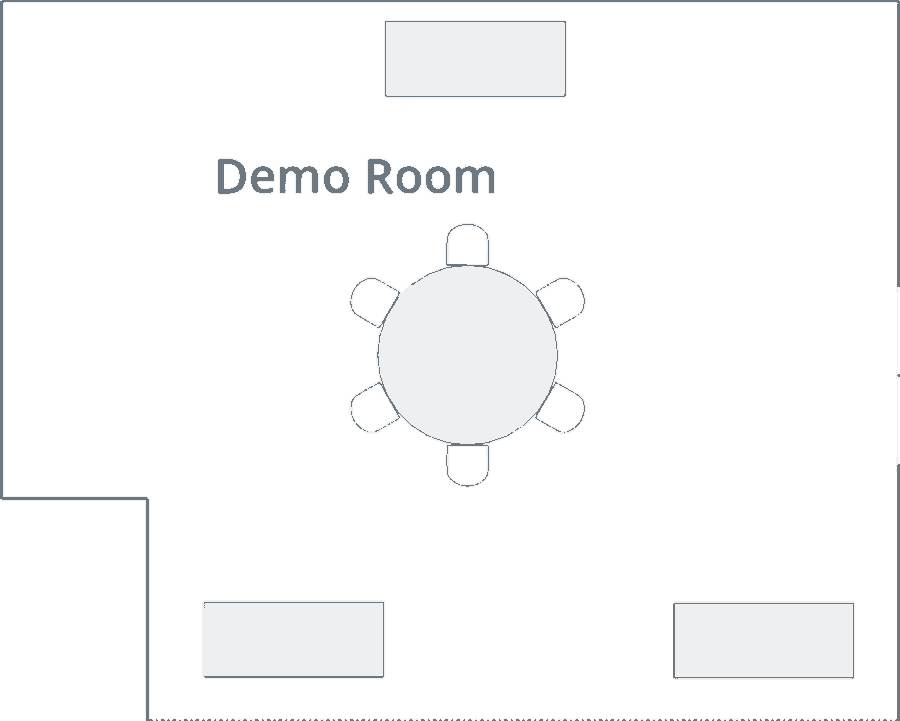
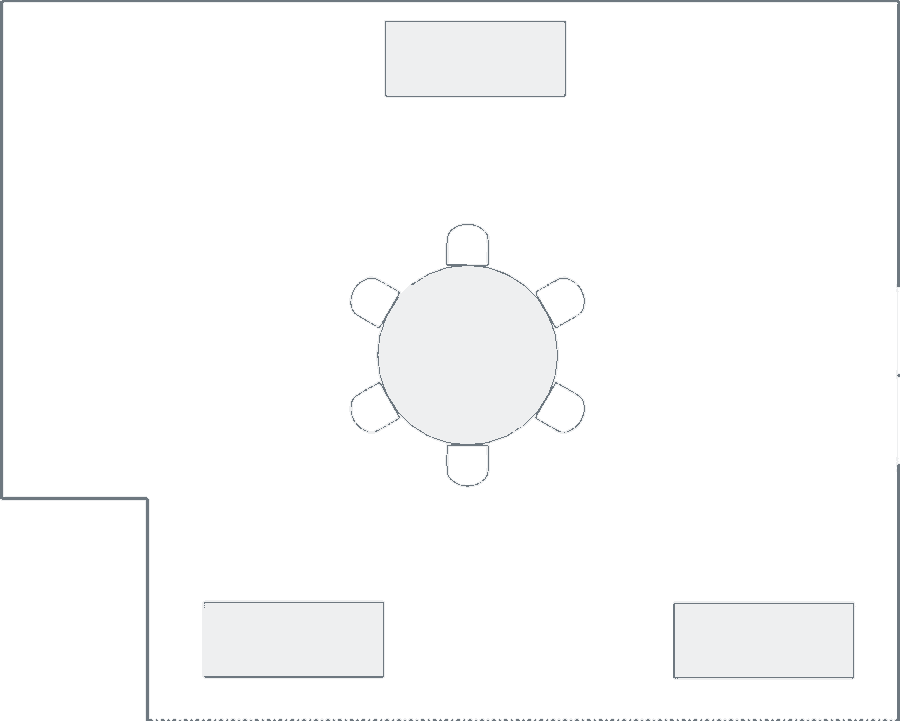
Live map: remove diagram notes that sit under event text
Barton 10/28 uses a cleaned copy (livemap/bg_BartonfromABB_1028.png) without
'scattered high boys...', 'Credenza' and the size label; the Today diagram is
untouched. Room overlays lose 'Beverages', 'Set: 70', 'Demo Room', 'Set:24',
'calssroom for 38', 'set for 72' and the stage '8x18'' label.

Changed region(s): [[0.2178, 0.2136, 0.56, 0.2746]]

diff --git a/live-map.html b/live-map.html
@@ -98,7 +98,7 @@
 <div class="empty" id="empty" hidden>No floor maps for the coming days yet.</div>
 <script>
 (function () {
-  var DATA = {"days":{"2026-10-17":{"ev":{"Primrose D":{"g":"Ayn Rand Centre","ct":"GTD 46 · classroom · Diana","s":[["9–4:15","General session","nofb"],["9–4","Cont. coffee & tea","bev"],["10–11","Cookies (3 dz)","brk"],["2:45–3:45","Candy, granola bars, fruit","brk"],["4:15–6","Flip to dinner","nofb"],["6–10","Hosted bar","recep"],["7:15","Plated Dinner · GTD 30","dinner"]],"flag":"Flip back to classroom after dinner"},"Plumeria":{"g":"Ayn Rand · VIP Room","ct":"GTD 20 · coffee EXP 50","s":[["7–6:30","VIP room","nofb"],["7–8:30","Early Riser Breakfast","bfast"],["8–6","Cont. coffee & tea","bev"],["12:40–2:10","Game Day Lunch","lunch"]]},"Verbena":{"g":"Ayn Rand · 1:1 Sessions","ct":"(1) round of 4 in A + B","s":[["9–4:15","1:1 sessions","nofb"]]}},"off":[{"room":"Bluebell","g":"Ayn Rand · Office","ct":"EXP 5 · conference","s":[["7–11 PM","Office · No F&B","nofb"]]}],"ghosts":[[1535,155,1915,805,"livemap/g_PRIMROSEDfromTheIrreplaceableSparkConference_3.png"],[135,597,485,1090,"livemap/g_PLUMERIAfromTheIrreplaceableSparkConference.png"],[1449,1095,1915,1355,"livemap/g_VERBENAfromTheIrreplaceableSparkConference.png"]],"contacts":[["Ayn Rand Centre","Mackenzie"]]},"2026-10-18":{"ev":{"Primrose AB":{"g":"UIL (Univ. of Texas)","ct":"GTD 128 · hollow sq. 20 + theater 108","s":[["9–4","Breakout","nofb"]]},"Primrose C":{"g":"UIL (Univ. of Texas)","ct":"GTD 171 · U for 44 + theater 120 · Lisa","s":[["6:30–7:15","Set up","nofb"],["7:15–11","General session","nofb"],["7:15","Staff food (back of room)","bfast"],["7:15–11","Coffee 3+3 outside (125)","bev"]]},"Primrose D":{"g":"Ayn Rand Centre","ct":"GTD 46 · classroom · Diana","s":[["9–11 PM","General session","nofb"],["9–4","Cont. coffee & tea","bev"],["10–11","Cookies (3 dz)","brk"],["3:55–4:55","Cookies + whole fruit","brk"],["5:30–7:30","Reception · hors d'oeuvres","recep"]]},"Plumeria":{"g":"Ayn Rand · VIP Room","ct":"GTD 20 · coffee EXP 50","s":[["7–6:30","VIP room","nofb"],["7–9","Texas Sunrise Breakfast","bfast"],["7–11 PM","Cont. beverages","bev"],["12:50–2:15","Austin BBQ Lunch","lunch"]]},"Verbena":{"g":"Ayn Rand · 1:1 Sessions","ct":"Existing set","s":[["7–11 PM","1:1 sessions","nofb"]]},"Camellia":{"g":"UIL (Univ. of Texas)","ct":"GTD 40 · hollow sq. 20 + theater 20","s":[["9–1","Breakout","nofb"]]},"Lantana":{"g":"UIL (Univ. of Texas)","ct":"GTD 41 · hollow sq. 20 + theater 21","s":[["9–1","Breakout","nofb"]]}},"off":[{"room":"Barton","bg":["diagrams/previews/BartonfromUILLegislativeMeetingOct2026.png",0.08,0.08,0.84,0.87,0.743],"g":"UIL (Univ. of Texas)","ct":"Rounds of 10 · black linen · Lisa","s":[["6:30–7:45","Early Riser Breakfast · GTD 35","bfast"],["11:30–1","Plated Lunch · GTD 70","lunch"]],"flag":"Flip 4 → 6 rounds by 11:30"},{"room":"Bluebell","g":"Ayn Rand · Office","ct":"EXP 5 · conference","s":[["7–11 PM","Office · No F&B","nofb"]]}],"ghosts":[[585,155,1008,805,"livemap/g_PRIMROSEABfromUILLegislativeMeetingOct2026.png"],[1008,155,1535,805,"livemap/g_PRIMROSECfromUILLegislativeMeetingOct2026_2.png"],[1535,155,1915,805,"livemap/g_PRIMROSEDfromTheIrreplaceableSparkConference_3.png"],[135,597,485,1090,"livemap/g_PLUMERIAfromTheIrreplaceableSparkConference.png"],[1449,1095,1915,1355,"livemap/g_VERBENAfromTheIrreplaceableSparkConference.png"],[988,1095,1449,1355,"livemap/g_CamelliafromUILLegislativeMeetingOct2026.png"],[135,105,485,597,"livemap/g_LANTANAfromUILLegislativeMeetingOct2026.png"]],"contacts":[["UIL (Univ. of Texas)","Caroline"],["Ayn Rand Centre","Mackenzie"]]},"2026-10-19":{"ev":{"Primrose C":{"g":"UIL (Univ. of Texas)","ct":"GTD 142 · hollow sq. 54 + theater 88 · Lisa","s":[["7:30–8:15","Room flip","nofb"],["8:15–11","General session","nofb"],["8:15","Breakfast tacos + pastries","bfast"],["8:15–11","Coffee (reg + decaf)","bev"]]},"Plumeria B":{"g":"Lumenalta","ct":"GTD 4 · clear room, 6' table","s":[["2–7","Marketing team","nofb"]]}},"off":[{"room":"Barton","bg":["diagrams/previews/BartonfromUILLegislativeMeetingOct2026.png",0.08,0.08,0.84,0.87,0.743],"g":"UIL (Univ. of Texas)","ct":"GTD 35 · rounds of 10 · Lisa","s":[["7:30–8:45","Texas Sunrise Breakfast","bfast"]]},{"room":"Zilker","g":"AUSDW In-House","ct":"EXP 10 · conference","s":[["6–9 PM","Dinner","dinner"]],"flag":"Menu not on events report"}],"ghosts":[[1008,155,1535,805,"livemap/primrose-c-mon.png"],[135,843,485,1090,"livemap/plumeria-b-mon.png"]],"contacts":[["UIL (Univ. of Texas)","Caroline"],["Lumenalta","Julie"],["AUSDW In-House","Mike"]]},"2026-10-20":{"ev":{"Verbena":{"g":"Grainger","ct":"GTD 20 · EXP 15 · Diana","s":[["7:15–8","Mod. Healthy Start Breakfast","bfast"],["8–5","All-day beverages","bev"],["10–11","Dried fruit & nuts","brk"],["12–1","Austin BBQ Lunch","lunch"],["2–3","Artisan Cheese Display","brk"]]},"Camellia A":{"g":"Microsoft","ct":"GTD 11 · conference set 14 · Lisa","s":[["8–5","Meeting","nofb"],["8–9:15","Early Riser Breakfast","bfast"],["12–1","Tejas Mexicano Lunch Buffet","lunch"]],"flag":"Revised: lunch upgraded to buffet · 1 GF"},"Camellia B":{"g":"Lumenalta","ct":"GTD 8 · Lisa","s":[["7–6:30","Sodas all day","bev"],["7:30–9","Grab & Go","bfast"],["12:30","Conf. Dining","lunch"],["4–4:30","Pretzel break","brk"]]}},"off":[{"room":"Barton","bg":["diagrams/previews/BartonfromTripleCrownConsultingQuarterlyMeetingOct2026.png",0.08,0.08,0.84,0.87,0.743],"g":"Triple Crown","ct":"EXP 25 · schoolroom · Lisa","s":[["8–5","Meeting","nofb"],["8–9","Early Riser Breakfast","bfast"],["9–5","Cont. beverages","bev"],["12:30–1:30","Tejas Mexicano Lunch","lunch"]]},{"room":"Buttercup","g":"Herring Bank","ct":"GTD 5 · conference","s":[["8–5","Meeting · No F&B","nofb"]]},{"room":"Zilker","g":"AUSDW In-House","ct":"EXP 10 · conference","s":[["6–8 PM","Dinner","dinner"]],"flag":"Menu not on events report"}],"ghosts":[[988,1078,1221,1355,"livemap/g_CamelliaAfromMicrosoftNagaLTOffSiteOct2026.png"],[1221,1055,1449,1355,"livemap/g_CamelliaBfromLumenaltaLeadershipMeetingOct2026.png"],[1449,1095,1915,1355,"livemap/g_VERBENAfromGrainger.png"]],"contacts":[["Triple Crown","Danielle"],["Grainger","Michelle"],["Herring Bank","Chris"],["Lumenalta","Natalie"],["Microsoft","Amie"],["AUSDW In-House","Mike"]]},"2026-10-21":{"ev":{"Lantana":{"g":"Q2 Banking","ct":"Set U-shape for 36","s":[["12–4","Set up for Thu","nofb"]],"flag":"New diagram: U set 32 (+8 chairs); EO says 36"},"Plumeria":{"g":"Q2 Banking","ct":"EXP 30 · (4) rounds of 9 · GTD 35 bev","s":[["10–1","Set up","nofb"],["1–4","Meeting","nofb"],["1–4","Cont. beverages","bev"],["2:30–4","Cookies (2 dz)","brk"]]},"Primrose A":{"g":"Q2 Banking","ct":"Set U-shape for 30","s":[["12–4","Set up for Thu","nofb"]]},"Primrose B":{"g":"Q2 Banking","ct":"Set U-shape for 30","s":[["12–4","Set up for Thu","nofb"],["10–1","6x30 table outside","nofb"]]},"Camellia A":{"g":"Microsoft","ct":"GTD 11 · conference set 14 · Lisa","s":[["8–12","Meeting","nofb"],["8–9","Early Riser Breakfast","bfast"],["12–1","Hill Country Spa Day Lunch Buffet","lunch"]],"flag":"Revised: lunch upgraded to buffet · 1 GF"},"Camellia B":{"g":"Lumenalta","ct":"GTD 8 · last day","s":[["8–3","Meeting + coffee","bev"],["8–9","Grab & Go","bfast"],["11:30","Conf. Dining","lunch"]]},"Verbena":{"g":"Grainger","ct":"EXP 15 · last day","s":[["7–5","Meeting","nofb"],["7–8","Early Riser Breakfast","bfast"],["10–11","AM break","bev"],["12–1","Game Day Tailgate Lunch","lunch"],["2–3","PM break","bev"]]}},"off":[{"room":"Barton","bg":["diagrams/previews/BartonfromTripleCrownConsultingQuarterlyMeetingOct2026.png",0.08,0.08,0.84,0.87,0.743],"g":"Triple Crown","ct":"EXP 25 · schoolroom · last day","s":[["8–3","Meeting","nofb"],["8–9","Texas Sunrise Breakfast","bfast"],["9–1","Cont. beverages","bev"],["12–1","Hill Country Spa Day Lunch","lunch"]]},{"room":"Buttercup","g":"Herring Bank","ct":"GTD 5 · conference","s":[["8–5","Meeting · No F&B","nofb"]]},{"room":"Bluebell","g":"QAD Inc. (pop-up)","ct":"GTD 4 · conference · Lisa","s":[["10:30–10 PM","Meeting · coffee + water","bev"],["10:30–11","Grab & Go Breakfast","bfast"],["12:30–1:30","Conf. Dining Lunch","lunch"]],"flag":"Ask before refilling coffee"}],"ghosts":[[135,105,485,597,"livemap/g_LANTANAfromQ2CustomerAdvisoryBoardCAB_1020.png"],[135,597,485,1090,"livemap/g_PLUMERIAfromQ2CustomerAdvisoryBoardCAB_1020.png"],[988,1078,1221,1355,"livemap/g_CamelliaAfromMicrosoftNagaLTOffSiteOct2026.png"],[1221,1055,1449,1355,"livemap/g_CamelliaBfromLumenaltaLeadershipMeetingOct2026.png"],[1449,1095,1915,1355,"livemap/g_VERBENAfromGrainger.png"],[585,155,1008,475,"livemap/g_PRIMROSEAfromQ2CustomerAdvisoryBoardCAB_1020.png"],[585,475,1008,805,"livemap/g_PRIMROSEBfromQ2CustomerAdvisoryBoardCAB_1020.png"]],"contacts":[["Triple Crown","Danielle"],["Grainger","Michelle"],["Herring Bank","Chris"],["Lumenalta","Natalie"],["Microsoft","Amie"],["Q2 Banking","Brooke"],["QAD Inc.","Rowan"]]},"2026-10-22":{"ev":{"Camellia A":{"g":"Q2 Banking · CAB Breakout","ct":"GTD 8 · U set 8 + 5 chairs","s":[["7:30–3","Fraud breakout","nofb"]]},"Primrose A":{"g":"Q2 Banking · Commercial Digital","ct":"EXP 30 · existing U-shape (set 37)","s":[["8–3","Breakout","nofb"],["3–4","Tech check","nofb"]]},"Primrose B":{"g":"Q2 Banking · Consumer Digital","ct":"EXP 30 · existing U-shape (set 36)","s":[["8–3","Breakout","nofb"],["2:30–4","Tech check","nofb"]]},"Lantana":{"g":"Q2 Banking · Pricing & Profitability","ct":"EXP 24 · U set 32 + 8 chairs","s":[["8–3","Breakout","nofb"],["2–4","Tech rehearsal","nofb"]]},"Plumeria A":{"g":"Q2 Banking · Fraud","ct":"GTD 10 · U set 10 + 5 chairs","s":[["8–10","Gen. session · U for 30, 2 screens","nofb"],["10–10:15","Flip to A + B","nofb"],["10:15–2","Breakout","nofb"]]},"Plumeria B":{"g":"Q2 Banking · Fraud","ct":"GTD 14 · U set 14 + 5 chairs","s":[["10:15–2","Breakout","nofb"],["4–5","Tech rehearsal (Plumeria)","nofb"]]},"Primrose D":{"g":"Q2 Banking · Storage","ct":"EXP 1 · new 10/20","s":[["8–3","Storage · No F&B","nofb"]]}},"off":[{"room":"Bluebell","g":"Q2 Banking · Office","ct":"EXP 1 · Diana","s":[["7–3","Staff office · No F&B","nofb"]],"flag":"Moved from Camellia B (10/20)"},{"room":"PDR Foyer","g":"Q2 Banking","ct":"Buffet · Diana","s":[["7–8:30","Early Riser Breakfast · GTD 115","bfast"],["12–1","Tejas Mexicano Lunch · GTD 138","lunch"]],"flag":"Bay II buffet · 1 garlic allergy: separate plate · 4 GF · 3 veg · 1 vegan"},{"room":"Bonnell","g":"Q2 Banking","ct":"EXP 40 · (4) rounds of 10","s":[["7:30–1","Seating · No F&B","nofb"]]},{"room":"Barton + Bay II","g":"Q2 Banking · Holding","ct":"(6) rounds of 10 · extra seating","s":[["7–1","Holding rooms · No F&B","nofb"]]},{"room":"Pre-Function","g":"Q2 Banking · Registration","ct":"EXP 150","s":[["7–3","Registration","nofb"],["7–12","Coffee, teas, sodas","bev"],["10–10:30","Mini pastries (3 dz) + fruit (20)","brk"],["2:30–3","Granola bars + iced tea","brk"]]}],"ghosts":[[135,105,485,597,"livemap/g_LANTANAfromQ2CustomerAdvisoryBoardCAB_1020.png"],[135,597,485,843,"livemap/g_PLUMERIAAfromQ2CustomerAdvisoryBoardCAB_1020.png"],[135,843,485,1090,"livemap/g_PLUMERIABfromQ2CustomerAdvisoryBoardCAB_1020.png"],[988,1078,1221,1355,"livemap/g_CamelliaAfromQ2CustomerAdvisoryBoardCAB_1020.png"],[585,155,1008,475,"livemap/g_PRIMROSEAfromQ2CustomerAdvisoryBoardCAB_1020.png"],[585,475,1008,805,"livemap/g_PRIMROSEBfromQ2CustomerAdvisoryBoardCAB_1020.png"]],"contacts":[["Q2 Banking","Brooke"]]},"2026-10-23":{"ev":{"Primrose AB":{"g":"Robe Lighting · Early Set Up","ct":"32 chairs theater + 5 tables","s":[["9–5","Set Up · No F&B","nofb"]],"flag":"Room must be ready by 9 AM (early set-up day, Lisa 10/21)"}},"off":[],"ghosts":[[585,155,1008,805,"livemap/g_PRIMROSEABfromRobeLighting_set32.png"]],"contacts":[["Robe Lighting","Taylor"]]},"2026-10-24":{"ev":{"Primrose AB":{"g":"Robe Lighting · Trade Show","ct":"GTD 30 · 32 theater + 5 tables","s":[["7–9","Set Up · No F&B","nofb"],["9–12","Trade show (product demo) · coffee + water on cons.","nofb"]]},"Primrose D":{"g":"PMADTX · Boots & Bling Gala","ct":"GTD 80 · (9) rounds of 8 + (1) of 10 · highboys","s":[["9–6","Set Up · No F&B","nofb"],["7–11 PM","Mac & cheese (50) · antipasto (35, no pork) · crudité (30)","recep"],["7–11 PM","Hosted bar on consumption","bev"],["7–11 PM","Cash bar","bev"]],"flag":"Two bars on the event orders (hosted + cash); confirm with Diana · client brings desserts"}},"off":[],"ghosts":[[1535,155,1915,805,"livemap/g_PRIMROSEDfromBootsBling_1021.png"],[585,155,1008,805,"livemap/g_PRIMROSEABfromRobeLighting_set32.png"]],"contacts":[["Robe Lighting","Peter"],["PMADTX","Courtney"]]},"2026-10-26":{"ev":{"Primrose CD":{"g":"US Oncology · Texas Oncology Fall Physi…","ct":"GTD 103 · set 114 · crescent rounds · stage 8x18","s":[["6–10 PM","Meeting · No F&B","nofb"],["6–8 PM","Steakhouse Chopping Block Dinner Table · GTD 103","dinner"]],"flag":"Warm the room 2–3°; limit staff in/out after 6:45 · label vegan + vegetarian"}},"off":[{"room":"Primrose Foyer CD","g":"US Oncology · Texas Oncology Fall Physi…","ct":"GTD 103 · cocktail rounds + highboys","s":[["5–6","Antipasto + veg crudité stations · 50 ea","recep"],["5–6","Appreciated Brands package bar · 2 bartenders","bev"]]}],"ghosts":[[1008,155,1915,805,"livemap/g_PRIMROSECDfromTexasOncology_1023.png"]],"contacts":[["US Oncology","Amy"]]},"2026-10-27":{"ev":{"Plumeria B":{"g":"Reliant Life Sciences · All Company Mee…","ct":"GTD 13 · set 15 · 3 crescent rounds of 5","s":[["8–5","Breakout · No F&B","nofb"]],"flag":"Added 10/23 (Lisa)"},"Plumeria A":{"g":"Reliant Life Sciences · All Company Mee…","ct":"GTD 13 · Conference","s":[["8–5","Meeting · No F&B","nofb"],["8–5","Continuous Break","bev"],["12–1","Conference Dining Lunch","lunch"]]},"Camellia":{"g":"Galderma · Team Building","ct":"GTD 20 · U-Shape","s":[["7–8","Healthy Start Breakfast Table","bfast"],["9:45–10","AM Coffee break","brk"],["12–1","Modern Italian lunch","lunch"],["2:30–2:45","PM Break","brk"]]},"Primrose AB":{"g":"Werfen · Set Up","ct":"(10) crescent rounds of 7, linenless · podium","s":[["12–5","Set Up · No F&B","nofb"]]},"Lantana B":{"g":"Werfen · Set Up","ct":"Classroom set for 24","s":[["12–5","Set Up · No F&B","nofb"]]},"Lantana A":{"g":"Werfen · Set Up","ct":"(3) demo tables + (1) round of 6","s":[["12–5","Set Up · No F&B","nofb"]]}},"off":[{"room":"Bluebell","g":"Bobcat · GME Meeting","ct":"GTD 4 · Conference","s":[["8–5","Continuous Break","bev"]]},{"room":"Zilker","g":"AUSDW In-House · SwS Lunch","ct":"EXP 12 · Conference","s":[["12–1","Meal on own · chicken biscuits + chips","nofb"]]}],"ghosts":[[988,1095,1449,1352,"livemap/g_CamelliafromGalderma_1021.png"],[135,597,485,843,"livemap/g_PLUMERIAAfromReliant_1021.png"],[585,155,1008,805,"livemap/g_PRIMROSEABfromWerfen.png"],[135,105,485,351,"livemap/g_LANTANAAfromWerfen_1026.png"],[135,351,485,597,"livemap/g_LANTANABfromWerfen.png"]],"contacts":[["Reliant Life Sciences","Whitney"],["Galderma","Shelby"],["Bobcat","Steve"],["AUSDW In-House","Mike"],["Werfen","Brooke"]]},"2026-10-28":{"ev":{"Plumeria B":{"g":"Reliant Life Sciences · All Company Mee…","ct":"GTD 13 · set 15 · 3 crescent rounds of 5","s":[["8–12:30","Breakout · No F&B","nofb"]],"flag":"Added 10/23 (Lisa)"},"Verbena":{"g":"Momentum Skilled Services · Corporate R…","ct":"GTD 38 · Schoolroom","s":[["7:30–5","Meeting · No F&B","nofb"],["7:30–9","Texas Sunrise Breakfast Table","bfast"],["9–5","Continuous Break","bev"],["12–1","Hill Country Spa Day lunch","lunch"],["3–3:30","Coffee Break","brk"]]},"Plumeria A":{"g":"Reliant Life Sciences · All Company Mee…","ct":"GTD 13 · Conference","s":[["8–12:30","Meeting · No F&B","nofb"],["9–12:30","Continuous Break","bev"],["12–1","Conference Dining Lunch","lunch"]]},"Camellia":{"g":"Galderma · Team Building","ct":"GTD 20 · U-Shape","s":[["7–8","Early Riser Breakfast Table","bfast"],["9:45–10","AM Break","brk"],["10–1","Continuous Break","bev"],["12–1","Tejas Mexicano lunch","lunch"],["2:30–2:45","PM Break","brk"]]},"Primrose AB":{"g":"Werfen · Meeting","ct":"GTD 70","s":[["7:45–8:30","Early Riser Breakfast Table","bfast"],["8–5","Meeting · No F&B","nofb"],["10:30–11","AM Coffee Break","brk"],["12:15–1","Hill Country Spa Day lunch","lunch"],["2:45–2:45","PM Coffee Break","brk"]],"flag":"Coffee Break prints 2:45 PM–2:45 PM (no end time); confirm with the manager"},"Lantana B":{"g":"Werfen · Meeting","ct":"GTD 20","s":[["8–5","Breakout · No F&B","nofb"]]},"Lantana A":{"g":"Werfen · Meeting","ct":"EXP 20","s":[["8–5","Demo Room · No F&B","nofb"]]}},"off":[{"room":"Bonnell","g":"AUSDW In-House · Dinner","ct":"EXP 17 · Conference","s":[["6–8 PM","Dinner · menu TBD (no event order yet)","dinner"]]},{"room":"Barton","bg":["diagrams/previews/CorinnePDRsfromABB_1021.png",0.47,0.31,0.99,0.85,0.744],"g":"ABB · ABB and AWS Social Event","ct":"GTD 40 · Cocktail Rounds","s":[["7:30–10 PM","Stationed hors d’oeuvres (50 each of 5)","recep"],["7:30–9:45 PM","Bar · hosted appreciated brands","bev"]]},{"room":"Bluebell","g":"Bobcat · GME Meeting","ct":"GTD 4 · Conference","s":[["8–5","Continuous Break","bev"]]}],"ghosts":[[988,1095,1449,1352,"livemap/g_CamelliafromGalderma_1021.png"],[135,597,485,843,"livemap/g_PLUMERIAAfromReliant_1021.png"],[585,155,1008,805,"livemap/g_PRIMROSEABfromWerfen.png"],[135,105,485,351,"livemap/g_LANTANAAfromWerfen_1026.png"],[135,351,485,597,"livemap/g_LANTANABfromWerfen.png"],[1449,1095,1915,1352,"livemap/g_VERBENAfromMomentum_1021.png"]],"contacts":[["Momentum Skilled Services","Morgan"],["Reliant Life Sciences","Whitney"],["Galderma","Shelby"],["AUSDW In-House","Mike"],["ABB","Ray"],["Bobcat","Steve"],["Werfen","Brooke"]]},"2026-10-29":{"ev":{"Camellia":{"g":"Upbring · Board of Directors","ct":"GTD 22 · U-Shape","s":[["9–10","Set Up · No F&B","nofb"],["10–3","Strategy session · No F&B","nofb"],["10–3","Continuous Break/ On Consumption","bev"],["12–1","Tejas Mexicano lunch","lunch"]]}},"off":[{"room":"Bonnell","g":"Upbring · Dinner","ct":"EXP 16 · Conference","s":[["6–8 PM","Dinner · menu TBD (no event order yet)","dinner"]]},{"room":"Bluebell","g":"AUSDW In-House · Meeting","ct":"EXP 1","s":[["10–12","Dave Sibley · No F&B","nofb"]]}],"ghosts":[[988,1095,1449,1352,"livemap/g_CamelliafromUpbring_1021.png"]],"contacts":[["Upbring","Cynthia"],["AUSDW In-House","Mike"]]},"2026-10-31":{"ev":{},"off":[{"room":"Bonnell","g":"Corinne · Liz's Baby Shower Brunch","ct":"GTD 13 · one long table","flag":"Nut-free event · one guest allergic to shellfish","s":[["11–1","Premium brunch, family style · mimosa bar","bfast"],["12:30","Tres leches cake","brk"]]}],"ghosts":[],"contacts":[["Corinne","Carrie"]]},"2026-11-02":{"ev":{"Camellia A":{"g":"TASB","ct":"GTD 14 · U-shape","s":[["8:30–9:30","Grab & Go","bfast"],["9–5","Board meeting","nofb"],["9–5","Breaks all day","bev"],["12–1","Conf. Dining","lunch"]]},"Camellia B":{"g":"Altasciences","ct":"GTD 8 · U-shape","s":[["7:45–9","Grab & Go","bfast"],["8–5","Meeting","nofb"],["9–5","Breaks all day","bev"],["10–10:30","AM break","brk"],["11:30–1","Conf. Dining","lunch"]]},"Primrose D":{"g":"Legrand · General Session","ct":"EXP 70 · crescent rounds, set 72 · stage 8x18","flag":"No event order yet: times and counts from the 10/5 events report","s":[["12–11 PM","General session · No F&B","nofb"],["4–5","Lunch · menu TBD","lunch"]]}},"off":[],"ghosts":[[1221,1095,1449,1352,"livemap/g_CamelliaBfromAltasciencesBDLeadership_1020.png"],[1535,155,1915,805,"livemap/g_PRIMROSEDfromLegrandCSRSummitNov2026MWP44DCZ.png"]],"contacts":[["TASB","Mark"],["Altasciences","Emilio"],["Legrand","Suzanne"]]},"2026-11-03":{"ev":{"Primrose B":{"g":"Legrand · Hospitality Room","ct":"EXP 70 · rounds of 10","flag":"No event order yet: times and counts from the 10/5 events report","s":[["7–2","Hospitality room · No F&B","nofb"],["8–9","Breakfast buffet · menu TBD","bfast"],["12–1","Lunch buffet · menu TBD","lunch"]]},"Primrose D":{"g":"Legrand · General Session","ct":"EXP 70 · crescent rounds, set 72 · stage 8x18","flag":"No event order yet: times and counts from the 10/5 events report","s":[["8–5","General session · No F&B","nofb"],["8–5","Continuous break","bev"],["12–1","Lunch · menu TBD","lunch"]]},"Camellia B":{"g":"Altasciences","ct":"GTD 8 · last day","s":[["7:30–9","Grab & Go","bfast"],["8–5","Meeting","nofb"],["12:30","Conf. Dining","lunch"],["5:30 PM","Legrand set","nofb"]]},"Verbena A":{"g":"Legrand","ct":"EXP 30 · rounds of 8","s":[["5:30–11 PM","Set-up","nofb"]]},"Verbena B":{"g":"Legrand","ct":"EXP 30 · rounds of 8","s":[["5:30–11 PM","Set-up","nofb"]]},"Primrose C":{"g":"Lenovo · General Session set-up","ct":"EXP 100","s":[["5:30–11:30 PM","General session set-up · No F&B","nofb"]]},"Lantana":{"g":"Bayer · Southwest Area Meeting","ct":"GTD 20 · U-shape","s":[["12–1","Austin BBQ lunch","lunch"],["12–5","Continuous break","bev"],["1–6","General session · No F&B","nofb"],["3–3:30","PM break · GTD 17","brk"]]}},"off":[{"room":"Bluebell","g":"Lenovo · Office","ct":"GTD 5","s":[["9–12","Office · No F&B","nofb"]]},{"room":"Buttercup","g":"Colt · Meeting","ct":"EXP 6 · conference","flag":"No event order yet: times and counts from the 10/5 events report","s":[["9–5","Meeting · No F&B","nofb"],["9–5","Continuous break","bev"],["12–1","Lunch · menu TBD","lunch"]]},{"room":"Bonnell","g":"AUSDW In-House · Dinner","ct":"EXP 30 · rounds of 6","s":[["5:30–8 PM","Dinner · menu TBD","dinner"]]}],"ghosts":[[1221,1095,1449,1352,"livemap/g_CamelliaBfromAltasciencesBDLeadership_1020.png"],[1535,155,1915,805,"livemap/g_PRIMROSEDfromLegrandCSRSummitNov2026MWP44DCZ.png"]],"contacts":[["Legrand","Suzanne"],["Altasciences","Emilio"],["Lenovo","Laura"],["Colt","Sharon"],["Bayer","Rachel"],["AUSDW In-House","Mike"]]}},"box":{"Lantana":[135,105,485,597],"Plumeria":[135,597,485,1090],"Plumeria B":[135,843,485,1090],"Primrose A":[585,155,1008,475],"Primrose B":[585,475,1008,805],"Primrose AB":[585,155,1008,805],"Primrose C":[1008,155,1535,805],"Primrose D":[1535,155,1915,805],"Camellia":[988,1095,1449,1352],"Camellia A":[988,1095,1221,1352],"Camellia B":[1221,1095,1449,1352],"Verbena":[1449,1095,1915,1352],"Plumeria A":[135,597,485,843],"Lantana A":[135,105,485,351],"Lantana B":[135,351,485,597],"Primrose CD":[1008,155,1915,805],"Verbena A":[1449,1095,1682,1352],"Verbena B":[1682,1095,1915,1352]}};
+  var DATA = {"days":{"2026-10-17":{"ev":{"Primrose D":{"g":"Ayn Rand Centre","ct":"GTD 46 · classroom · Diana","s":[["9–4:15","General session","nofb"],["9–4","Cont. coffee & tea","bev"],["10–11","Cookies (3 dz)","brk"],["2:45–3:45","Candy, granola bars, fruit","brk"],["4:15–6","Flip to dinner","nofb"],["6–10","Hosted bar","recep"],["7:15","Plated Dinner · GTD 30","dinner"]],"flag":"Flip back to classroom after dinner"},"Plumeria":{"g":"Ayn Rand · VIP Room","ct":"GTD 20 · coffee EXP 50","s":[["7–6:30","VIP room","nofb"],["7–8:30","Early Riser Breakfast","bfast"],["8–6","Cont. coffee & tea","bev"],["12:40–2:10","Game Day Lunch","lunch"]]},"Verbena":{"g":"Ayn Rand · 1:1 Sessions","ct":"(1) round of 4 in A + B","s":[["9–4:15","1:1 sessions","nofb"]]}},"off":[{"room":"Bluebell","g":"Ayn Rand · Office","ct":"EXP 5 · conference","s":[["7–11 PM","Office · No F&B","nofb"]]}],"ghosts":[[1535,155,1915,805,"livemap/g_PRIMROSEDfromTheIrreplaceableSparkConference_3.png"],[135,597,485,1090,"livemap/g_PLUMERIAfromTheIrreplaceableSparkConference.png"],[1449,1095,1915,1355,"livemap/g_VERBENAfromTheIrreplaceableSparkConference.png"]],"contacts":[["Ayn Rand Centre","Mackenzie"]]},"2026-10-18":{"ev":{"Primrose AB":{"g":"UIL (Univ. of Texas)","ct":"GTD 128 · hollow sq. 20 + theater 108","s":[["9–4","Breakout","nofb"]]},"Primrose C":{"g":"UIL (Univ. of Texas)","ct":"GTD 171 · U for 44 + theater 120 · Lisa","s":[["6:30–7:15","Set up","nofb"],["7:15–11","General session","nofb"],["7:15","Staff food (back of room)","bfast"],["7:15–11","Coffee 3+3 outside (125)","bev"]]},"Primrose D":{"g":"Ayn Rand Centre","ct":"GTD 46 · classroom · Diana","s":[["9–11 PM","General session","nofb"],["9–4","Cont. coffee & tea","bev"],["10–11","Cookies (3 dz)","brk"],["3:55–4:55","Cookies + whole fruit","brk"],["5:30–7:30","Reception · hors d'oeuvres","recep"]]},"Plumeria":{"g":"Ayn Rand · VIP Room","ct":"GTD 20 · coffee EXP 50","s":[["7–6:30","VIP room","nofb"],["7–9","Texas Sunrise Breakfast","bfast"],["7–11 PM","Cont. beverages","bev"],["12:50–2:15","Austin BBQ Lunch","lunch"]]},"Verbena":{"g":"Ayn Rand · 1:1 Sessions","ct":"Existing set","s":[["7–11 PM","1:1 sessions","nofb"]]},"Camellia":{"g":"UIL (Univ. of Texas)","ct":"GTD 40 · hollow sq. 20 + theater 20","s":[["9–1","Breakout","nofb"]]},"Lantana":{"g":"UIL (Univ. of Texas)","ct":"GTD 41 · hollow sq. 20 + theater 21","s":[["9–1","Breakout","nofb"]]}},"off":[{"room":"Barton","bg":["diagrams/previews/BartonfromUILLegislativeMeetingOct2026.png",0.08,0.08,0.84,0.87,0.743],"g":"UIL (Univ. of Texas)","ct":"Rounds of 10 · black linen · Lisa","s":[["6:30–7:45","Early Riser Breakfast · GTD 35","bfast"],["11:30–1","Plated Lunch · GTD 70","lunch"]],"flag":"Flip 4 → 6 rounds by 11:30"},{"room":"Bluebell","g":"Ayn Rand · Office","ct":"EXP 5 · conference","s":[["7–11 PM","Office · No F&B","nofb"]]}],"ghosts":[[585,155,1008,805,"livemap/g_PRIMROSEABfromUILLegislativeMeetingOct2026.png"],[1008,155,1535,805,"livemap/g_PRIMROSECfromUILLegislativeMeetingOct2026_2.png"],[1535,155,1915,805,"livemap/g_PRIMROSEDfromTheIrreplaceableSparkConference_3.png"],[135,597,485,1090,"livemap/g_PLUMERIAfromTheIrreplaceableSparkConference.png"],[1449,1095,1915,1355,"livemap/g_VERBENAfromTheIrreplaceableSparkConference.png"],[988,1095,1449,1355,"livemap/g_CamelliafromUILLegislativeMeetingOct2026.png"],[135,105,485,597,"livemap/g_LANTANAfromUILLegislativeMeetingOct2026.png"]],"contacts":[["UIL (Univ. of Texas)","Caroline"],["Ayn Rand Centre","Mackenzie"]]},"2026-10-19":{"ev":{"Primrose C":{"g":"UIL (Univ. of Texas)","ct":"GTD 142 · hollow sq. 54 + theater 88 · Lisa","s":[["7:30–8:15","Room flip","nofb"],["8:15–11","General session","nofb"],["8:15","Breakfast tacos + pastries","bfast"],["8:15–11","Coffee (reg + decaf)","bev"]]},"Plumeria B":{"g":"Lumenalta","ct":"GTD 4 · clear room, 6' table","s":[["2–7","Marketing team","nofb"]]}},"off":[{"room":"Barton","bg":["diagrams/previews/BartonfromUILLegislativeMeetingOct2026.png",0.08,0.08,0.84,0.87,0.743],"g":"UIL (Univ. of Texas)","ct":"GTD 35 · rounds of 10 · Lisa","s":[["7:30–8:45","Texas Sunrise Breakfast","bfast"]]},{"room":"Zilker","g":"AUSDW In-House","ct":"EXP 10 · conference","s":[["6–9 PM","Dinner","dinner"]],"flag":"Menu not on events report"}],"ghosts":[[1008,155,1535,805,"livemap/primrose-c-mon.png"],[135,843,485,1090,"livemap/plumeria-b-mon.png"]],"contacts":[["UIL (Univ. of Texas)","Caroline"],["Lumenalta","Julie"],["AUSDW In-House","Mike"]]},"2026-10-20":{"ev":{"Verbena":{"g":"Grainger","ct":"GTD 20 · EXP 15 · Diana","s":[["7:15–8","Mod. Healthy Start Breakfast","bfast"],["8–5","All-day beverages","bev"],["10–11","Dried fruit & nuts","brk"],["12–1","Austin BBQ Lunch","lunch"],["2–3","Artisan Cheese Display","brk"]]},"Camellia A":{"g":"Microsoft","ct":"GTD 11 · conference set 14 · Lisa","s":[["8–5","Meeting","nofb"],["8–9:15","Early Riser Breakfast","bfast"],["12–1","Tejas Mexicano Lunch Buffet","lunch"]],"flag":"Revised: lunch upgraded to buffet · 1 GF"},"Camellia B":{"g":"Lumenalta","ct":"GTD 8 · Lisa","s":[["7–6:30","Sodas all day","bev"],["7:30–9","Grab & Go","bfast"],["12:30","Conf. Dining","lunch"],["4–4:30","Pretzel break","brk"]]}},"off":[{"room":"Barton","bg":["diagrams/previews/BartonfromTripleCrownConsultingQuarterlyMeetingOct2026.png",0.08,0.08,0.84,0.87,0.743],"g":"Triple Crown","ct":"EXP 25 · schoolroom · Lisa","s":[["8–5","Meeting","nofb"],["8–9","Early Riser Breakfast","bfast"],["9–5","Cont. beverages","bev"],["12:30–1:30","Tejas Mexicano Lunch","lunch"]]},{"room":"Buttercup","g":"Herring Bank","ct":"GTD 5 · conference","s":[["8–5","Meeting · No F&B","nofb"]]},{"room":"Zilker","g":"AUSDW In-House","ct":"EXP 10 · conference","s":[["6–8 PM","Dinner","dinner"]],"flag":"Menu not on events report"}],"ghosts":[[988,1078,1221,1355,"livemap/g_CamelliaAfromMicrosoftNagaLTOffSiteOct2026.png"],[1221,1055,1449,1355,"livemap/g_CamelliaBfromLumenaltaLeadershipMeetingOct2026.png"],[1449,1095,1915,1355,"livemap/g_VERBENAfromGrainger.png"]],"contacts":[["Triple Crown","Danielle"],["Grainger","Michelle"],["Herring Bank","Chris"],["Lumenalta","Natalie"],["Microsoft","Amie"],["AUSDW In-House","Mike"]]},"2026-10-21":{"ev":{"Lantana":{"g":"Q2 Banking","ct":"Set U-shape for 36","s":[["12–4","Set up for Thu","nofb"]],"flag":"New diagram: U set 32 (+8 chairs); EO says 36"},"Plumeria":{"g":"Q2 Banking","ct":"EXP 30 · (4) rounds of 9 · GTD 35 bev","s":[["10–1","Set up","nofb"],["1–4","Meeting","nofb"],["1–4","Cont. beverages","bev"],["2:30–4","Cookies (2 dz)","brk"]]},"Primrose A":{"g":"Q2 Banking","ct":"Set U-shape for 30","s":[["12–4","Set up for Thu","nofb"]]},"Primrose B":{"g":"Q2 Banking","ct":"Set U-shape for 30","s":[["12–4","Set up for Thu","nofb"],["10–1","6x30 table outside","nofb"]]},"Camellia A":{"g":"Microsoft","ct":"GTD 11 · conference set 14 · Lisa","s":[["8–12","Meeting","nofb"],["8–9","Early Riser Breakfast","bfast"],["12–1","Hill Country Spa Day Lunch Buffet","lunch"]],"flag":"Revised: lunch upgraded to buffet · 1 GF"},"Camellia B":{"g":"Lumenalta","ct":"GTD 8 · last day","s":[["8–3","Meeting + coffee","bev"],["8–9","Grab & Go","bfast"],["11:30","Conf. Dining","lunch"]]},"Verbena":{"g":"Grainger","ct":"EXP 15 · last day","s":[["7–5","Meeting","nofb"],["7–8","Early Riser Breakfast","bfast"],["10–11","AM break","bev"],["12–1","Game Day Tailgate Lunch","lunch"],["2–3","PM break","bev"]]}},"off":[{"room":"Barton","bg":["diagrams/previews/BartonfromTripleCrownConsultingQuarterlyMeetingOct2026.png",0.08,0.08,0.84,0.87,0.743],"g":"Triple Crown","ct":"EXP 25 · schoolroom · last day","s":[["8–3","Meeting","nofb"],["8–9","Texas Sunrise Breakfast","bfast"],["9–1","Cont. beverages","bev"],["12–1","Hill Country Spa Day Lunch","lunch"]]},{"room":"Buttercup","g":"Herring Bank","ct":"GTD 5 · conference","s":[["8–5","Meeting · No F&B","nofb"]]},{"room":"Bluebell","g":"QAD Inc. (pop-up)","ct":"GTD 4 · conference · Lisa","s":[["10:30–10 PM","Meeting · coffee + water","bev"],["10:30–11","Grab & Go Breakfast","bfast"],["12:30–1:30","Conf. Dining Lunch","lunch"]],"flag":"Ask before refilling coffee"}],"ghosts":[[135,105,485,597,"livemap/g_LANTANAfromQ2CustomerAdvisoryBoardCAB_1020.png"],[135,597,485,1090,"livemap/g_PLUMERIAfromQ2CustomerAdvisoryBoardCAB_1020.png"],[988,1078,1221,1355,"livemap/g_CamelliaAfromMicrosoftNagaLTOffSiteOct2026.png"],[1221,1055,1449,1355,"livemap/g_CamelliaBfromLumenaltaLeadershipMeetingOct2026.png"],[1449,1095,1915,1355,"livemap/g_VERBENAfromGrainger.png"],[585,155,1008,475,"livemap/g_PRIMROSEAfromQ2CustomerAdvisoryBoardCAB_1020.png"],[585,475,1008,805,"livemap/g_PRIMROSEBfromQ2CustomerAdvisoryBoardCAB_1020.png"]],"contacts":[["Triple Crown","Danielle"],["Grainger","Michelle"],["Herring Bank","Chris"],["Lumenalta","Natalie"],["Microsoft","Amie"],["Q2 Banking","Brooke"],["QAD Inc.","Rowan"]]},"2026-10-22":{"ev":{"Camellia A":{"g":"Q2 Banking · CAB Breakout","ct":"GTD 8 · U set 8 + 5 chairs","s":[["7:30–3","Fraud breakout","nofb"]]},"Primrose A":{"g":"Q2 Banking · Commercial Digital","ct":"EXP 30 · existing U-shape (set 37)","s":[["8–3","Breakout","nofb"],["3–4","Tech check","nofb"]]},"Primrose B":{"g":"Q2 Banking · Consumer Digital","ct":"EXP 30 · existing U-shape (set 36)","s":[["8–3","Breakout","nofb"],["2:30–4","Tech check","nofb"]]},"Lantana":{"g":"Q2 Banking · Pricing & Profitability","ct":"EXP 24 · U set 32 + 8 chairs","s":[["8–3","Breakout","nofb"],["2–4","Tech rehearsal","nofb"]]},"Plumeria A":{"g":"Q2 Banking · Fraud","ct":"GTD 10 · U set 10 + 5 chairs","s":[["8–10","Gen. session · U for 30, 2 screens","nofb"],["10–10:15","Flip to A + B","nofb"],["10:15–2","Breakout","nofb"]]},"Plumeria B":{"g":"Q2 Banking · Fraud","ct":"GTD 14 · U set 14 + 5 chairs","s":[["10:15–2","Breakout","nofb"],["4–5","Tech rehearsal (Plumeria)","nofb"]]},"Primrose D":{"g":"Q2 Banking · Storage","ct":"EXP 1 · new 10/20","s":[["8–3","Storage · No F&B","nofb"]]}},"off":[{"room":"Bluebell","g":"Q2 Banking · Office","ct":"EXP 1 · Diana","s":[["7–3","Staff office · No F&B","nofb"]],"flag":"Moved from Camellia B (10/20)"},{"room":"PDR Foyer","g":"Q2 Banking","ct":"Buffet · Diana","s":[["7–8:30","Early Riser Breakfast · GTD 115","bfast"],["12–1","Tejas Mexicano Lunch · GTD 138","lunch"]],"flag":"Bay II buffet · 1 garlic allergy: separate plate · 4 GF · 3 veg · 1 vegan"},{"room":"Bonnell","g":"Q2 Banking","ct":"EXP 40 · (4) rounds of 10","s":[["7:30–1","Seating · No F&B","nofb"]]},{"room":"Barton + Bay II","g":"Q2 Banking · Holding","ct":"(6) rounds of 10 · extra seating","s":[["7–1","Holding rooms · No F&B","nofb"]]},{"room":"Pre-Function","g":"Q2 Banking · Registration","ct":"EXP 150","s":[["7–3","Registration","nofb"],["7–12","Coffee, teas, sodas","bev"],["10–10:30","Mini pastries (3 dz) + fruit (20)","brk"],["2:30–3","Granola bars + iced tea","brk"]]}],"ghosts":[[135,105,485,597,"livemap/g_LANTANAfromQ2CustomerAdvisoryBoardCAB_1020.png"],[135,597,485,843,"livemap/g_PLUMERIAAfromQ2CustomerAdvisoryBoardCAB_1020.png"],[135,843,485,1090,"livemap/g_PLUMERIABfromQ2CustomerAdvisoryBoardCAB_1020.png"],[988,1078,1221,1355,"livemap/g_CamelliaAfromQ2CustomerAdvisoryBoardCAB_1020.png"],[585,155,1008,475,"livemap/g_PRIMROSEAfromQ2CustomerAdvisoryBoardCAB_1020.png"],[585,475,1008,805,"livemap/g_PRIMROSEBfromQ2CustomerAdvisoryBoardCAB_1020.png"]],"contacts":[["Q2 Banking","Brooke"]]},"2026-10-23":{"ev":{"Primrose AB":{"g":"Robe Lighting · Early Set Up","ct":"32 chairs theater + 5 tables","s":[["9–5","Set Up · No F&B","nofb"]],"flag":"Room must be ready by 9 AM (early set-up day, Lisa 10/21)"}},"off":[],"ghosts":[[585,155,1008,805,"livemap/g_PRIMROSEABfromRobeLighting_set32.png"]],"contacts":[["Robe Lighting","Taylor"]]},"2026-10-24":{"ev":{"Primrose AB":{"g":"Robe Lighting · Trade Show","ct":"GTD 30 · 32 theater + 5 tables","s":[["7–9","Set Up · No F&B","nofb"],["9–12","Trade show (product demo) · coffee + water on cons.","nofb"]]},"Primrose D":{"g":"PMADTX · Boots & Bling Gala","ct":"GTD 80 · (9) rounds of 8 + (1) of 10 · highboys","s":[["9–6","Set Up · No F&B","nofb"],["7–11 PM","Mac & cheese (50) · antipasto (35, no pork) · crudité (30)","recep"],["7–11 PM","Hosted bar on consumption","bev"],["7–11 PM","Cash bar","bev"]],"flag":"Two bars on the event orders (hosted + cash); confirm with Diana · client brings desserts"}},"off":[],"ghosts":[[1535,155,1915,805,"livemap/g_PRIMROSEDfromBootsBling_1021.png"],[585,155,1008,805,"livemap/g_PRIMROSEABfromRobeLighting_set32.png"]],"contacts":[["Robe Lighting","Peter"],["PMADTX","Courtney"]]},"2026-10-26":{"ev":{"Primrose CD":{"g":"US Oncology · Texas Oncology Fall Physi…","ct":"GTD 103 · set 114 · crescent rounds · stage 8x18","s":[["6–10 PM","Meeting · No F&B","nofb"],["6–8 PM","Steakhouse Chopping Block Dinner Table · GTD 103","dinner"]],"flag":"Warm the room 2–3°; limit staff in/out after 6:45 · label vegan + vegetarian"}},"off":[{"room":"Primrose Foyer CD","g":"US Oncology · Texas Oncology Fall Physi…","ct":"GTD 103 · cocktail rounds + highboys","s":[["5–6","Antipasto + veg crudité stations · 50 ea","recep"],["5–6","Appreciated Brands package bar · 2 bartenders","bev"]]}],"ghosts":[[1008,155,1915,805,"livemap/g_PRIMROSECDfromTexasOncology_1023.png"]],"contacts":[["US Oncology","Amy"]]},"2026-10-27":{"ev":{"Plumeria B":{"g":"Reliant Life Sciences · All Company Mee…","ct":"GTD 13 · set 15 · 3 crescent rounds of 5","s":[["8–5","Breakout · No F&B","nofb"]],"flag":"Added 10/23 (Lisa)"},"Plumeria A":{"g":"Reliant Life Sciences · All Company Mee…","ct":"GTD 13 · Conference","s":[["8–5","Meeting · No F&B","nofb"],["8–5","Continuous Break","bev"],["12–1","Conference Dining Lunch","lunch"]]},"Camellia":{"g":"Galderma · Team Building","ct":"GTD 20 · U-Shape","s":[["7–8","Healthy Start Breakfast Table","bfast"],["9:45–10","AM Coffee break","brk"],["12–1","Modern Italian lunch","lunch"],["2:30–2:45","PM Break","brk"]]},"Primrose AB":{"g":"Werfen · Set Up","ct":"(10) crescent rounds of 7, linenless · podium","s":[["12–5","Set Up · No F&B","nofb"]]},"Lantana B":{"g":"Werfen · Set Up","ct":"Classroom set for 24","s":[["12–5","Set Up · No F&B","nofb"]]},"Lantana A":{"g":"Werfen · Set Up","ct":"(3) demo tables + (1) round of 6","s":[["12–5","Set Up · No F&B","nofb"]]}},"off":[{"room":"Bluebell","g":"Bobcat · GME Meeting","ct":"GTD 4 · Conference","s":[["8–5","Continuous Break","bev"]]},{"room":"Zilker","g":"AUSDW In-House · SwS Lunch","ct":"EXP 12 · Conference","s":[["12–1","Meal on own · chicken biscuits + chips","nofb"]]}],"ghosts":[[988,1095,1449,1352,"livemap/g_CamelliafromGalderma_1021.png"],[135,597,485,843,"livemap/g_PLUMERIAAfromReliant_1021.png"],[585,155,1008,805,"livemap/g_PRIMROSEABfromWerfen.png"],[135,105,485,351,"livemap/g_LANTANAAfromWerfen_1026.png"],[135,351,485,597,"livemap/g_LANTANABfromWerfen.png"]],"contacts":[["Reliant Life Sciences","Whitney"],["Galderma","Shelby"],["Bobcat","Steve"],["AUSDW In-House","Mike"],["Werfen","Brooke"]]},"2026-10-28":{"ev":{"Plumeria B":{"g":"Reliant Life Sciences · All Company Mee…","ct":"GTD 13 · set 15 · 3 crescent rounds of 5","s":[["8–12:30","Breakout · No F&B","nofb"]],"flag":"Added 10/23 (Lisa)"},"Verbena":{"g":"Momentum Skilled Services · Corporate R…","ct":"GTD 38 · Schoolroom","s":[["7:30–5","Meeting · No F&B","nofb"],["7:30–9","Texas Sunrise Breakfast Table","bfast"],["9–5","Continuous Break","bev"],["12–1","Hill Country Spa Day lunch","lunch"],["3–3:30","Coffee Break","brk"]]},"Plumeria A":{"g":"Reliant Life Sciences · All Company Mee…","ct":"GTD 13 · Conference","s":[["8–12:30","Meeting · No F&B","nofb"],["9–12:30","Continuous Break","bev"],["12–1","Conference Dining Lunch","lunch"]]},"Camellia":{"g":"Galderma · Team Building","ct":"GTD 20 · U-Shape","s":[["7–8","Early Riser Breakfast Table","bfast"],["9:45–10","AM Break","brk"],["10–1","Continuous Break","bev"],["12–1","Tejas Mexicano lunch","lunch"],["2:30–2:45","PM Break","brk"]]},"Primrose AB":{"g":"Werfen · Meeting","ct":"GTD 70","s":[["7:45–8:30","Early Riser Breakfast Table","bfast"],["8–5","Meeting · No F&B","nofb"],["10:30–11","AM Coffee Break","brk"],["12:15–1","Hill Country Spa Day lunch","lunch"],["2:45–2:45","PM Coffee Break","brk"]],"flag":"Coffee Break prints 2:45 PM–2:45 PM (no end time); confirm with the manager"},"Lantana B":{"g":"Werfen · Meeting","ct":"GTD 20","s":[["8–5","Breakout · No F&B","nofb"]]},"Lantana A":{"g":"Werfen · Meeting","ct":"EXP 20","s":[["8–5","Demo Room · No F&B","nofb"]]}},"off":[{"room":"Bonnell","g":"AUSDW In-House · Dinner","ct":"EXP 17 · Conference","s":[["6–8 PM","Dinner · menu TBD (no event order yet)","dinner"]]},{"room":"Barton","bg":["livemap/bg_BartonfromABB_1028.png",0.47,0.31,0.99,0.85,0.744],"g":"ABB · ABB and AWS Social Event","ct":"GTD 40 · Cocktail Rounds","s":[["7:30–10 PM","Stationed hors d’oeuvres (50 each of 5)","recep"],["7:30–9:45 PM","Bar · hosted appreciated brands","bev"]]},{"room":"Bluebell","g":"Bobcat · GME Meeting","ct":"GTD 4 · Conference","s":[["8–5","Continuous Break","bev"]]}],"ghosts":[[988,1095,1449,1352,"livemap/g_CamelliafromGalderma_1021.png"],[135,597,485,843,"livemap/g_PLUMERIAAfromReliant_1021.png"],[585,155,1008,805,"livemap/g_PRIMROSEABfromWerfen.png"],[135,105,485,351,"livemap/g_LANTANAAfromWerfen_1026.png"],[135,351,485,597,"livemap/g_LANTANABfromWerfen.png"],[1449,1095,1915,1352,"livemap/g_VERBENAfromMomentum_1021.png"]],"contacts":[["Momentum Skilled Services","Morgan"],["Reliant Life Sciences","Whitney"],["Galderma","Shelby"],["AUSDW In-House","Mike"],["ABB","Ray"],["Bobcat","Steve"],["Werfen","Brooke"]]},"2026-10-29":{"ev":{"Camellia":{"g":"Upbring · Board of Directors","ct":"GTD 22 · U-Shape","s":[["9–10","Set Up · No F&B","nofb"],["10–3","Strategy session · No F&B","nofb"],["10–3","Continuous Break/ On Consumption","bev"],["12–1","Tejas Mexicano lunch","lunch"]]}},"off":[{"room":"Bonnell","g":"Upbring · Dinner","ct":"EXP 16 · Conference","s":[["6–8 PM","Dinner · menu TBD (no event order yet)","dinner"]]},{"room":"Bluebell","g":"AUSDW In-House · Meeting","ct":"EXP 1","s":[["10–12","Dave Sibley · No F&B","nofb"]]}],"ghosts":[[988,1095,1449,1352,"livemap/g_CamelliafromUpbring_1021.png"]],"contacts":[["Upbring","Cynthia"],["AUSDW In-House","Mike"]]},"2026-10-31":{"ev":{},"off":[{"room":"Bonnell","g":"Corinne · Liz's Baby Shower Brunch","ct":"GTD 13 · one long table","flag":"Nut-free event · one guest allergic to shellfish","s":[["11–1","Premium brunch, family style · mimosa bar","bfast"],["12:30","Tres leches cake","brk"]]}],"ghosts":[],"contacts":[["Corinne","Carrie"]]},"2026-11-02":{"ev":{"Camellia A":{"g":"TASB","ct":"GTD 14 · U-shape","s":[["8:30–9:30","Grab & Go","bfast"],["9–5","Board meeting","nofb"],["9–5","Breaks all day","bev"],["12–1","Conf. Dining","lunch"]]},"Camellia B":{"g":"Altasciences","ct":"GTD 8 · U-shape","s":[["7:45–9","Grab & Go","bfast"],["8–5","Meeting","nofb"],["9–5","Breaks all day","bev"],["10–10:30","AM break","brk"],["11:30–1","Conf. Dining","lunch"]]},"Primrose D":{"g":"Legrand · General Session","ct":"EXP 70 · crescent rounds, set 72 · stage 8x18","flag":"No event order yet: times and counts from the 10/5 events report","s":[["12–11 PM","General session · No F&B","nofb"],["4–5","Lunch · menu TBD","lunch"]]}},"off":[],"ghosts":[[1221,1095,1449,1352,"livemap/g_CamelliaBfromAltasciencesBDLeadership_1020.png"],[1535,155,1915,805,"livemap/g_PRIMROSEDfromLegrandCSRSummitNov2026MWP44DCZ.png"]],"contacts":[["TASB","Mark"],["Altasciences","Emilio"],["Legrand","Suzanne"]]},"2026-11-03":{"ev":{"Primrose B":{"g":"Legrand · Hospitality Room","ct":"EXP 70 · rounds of 10","flag":"No event order yet: times and counts from the 10/5 events report","s":[["7–2","Hospitality room · No F&B","nofb"],["8–9","Breakfast buffet · menu TBD","bfast"],["12–1","Lunch buffet · menu TBD","lunch"]]},"Primrose D":{"g":"Legrand · General Session","ct":"EXP 70 · crescent rounds, set 72 · stage 8x18","flag":"No event order yet: times and counts from the 10/5 events report","s":[["8–5","General session · No F&B","nofb"],["8–5","Continuous break","bev"],["12–1","Lunch · menu TBD","lunch"]]},"Camellia B":{"g":"Altasciences","ct":"GTD 8 · last day","s":[["7:30–9","Grab & Go","bfast"],["8–5","Meeting","nofb"],["12:30","Conf. Dining","lunch"],["5:30 PM","Legrand set","nofb"]]},"Verbena A":{"g":"Legrand","ct":"EXP 30 · rounds of 8","s":[["5:30–11 PM","Set-up","nofb"]]},"Verbena B":{"g":"Legrand","ct":"EXP 30 · rounds of 8","s":[["5:30–11 PM","Set-up","nofb"]]},"Primrose C":{"g":"Lenovo · General Session set-up","ct":"EXP 100","s":[["5:30–11:30 PM","General session set-up · No F&B","nofb"]]},"Lantana":{"g":"Bayer · Southwest Area Meeting","ct":"GTD 20 · U-shape","s":[["12–1","Austin BBQ lunch","lunch"],["12–5","Continuous break","bev"],["1–6","General session · No F&B","nofb"],["3–3:30","PM break · GTD 17","brk"]]}},"off":[{"room":"Bluebell","g":"Lenovo · Office","ct":"GTD 5","s":[["9–12","Office · No F&B","nofb"]]},{"room":"Buttercup","g":"Colt · Meeting","ct":"EXP 6 · conference","flag":"No event order yet: times and counts from the 10/5 events report","s":[["9–5","Meeting · No F&B","nofb"],["9–5","Continuous break","bev"],["12–1","Lunch · menu TBD","lunch"]]},{"room":"Bonnell","g":"AUSDW In-House · Dinner","ct":"EXP 30 · rounds of 6","s":[["5:30–8 PM","Dinner · menu TBD","dinner"]]}],"ghosts":[[1221,1095,1449,1352,"livemap/g_CamelliaBfromAltasciencesBDLeadership_1020.png"],[1535,155,1915,805,"livemap/g_PRIMROSEDfromLegrandCSRSummitNov2026MWP44DCZ.png"]],"contacts":[["Legrand","Suzanne"],["Altasciences","Emilio"],["Lenovo","Laura"],["Colt","Sharon"],["Bayer","Rachel"],["AUSDW In-House","Mike"]]}},"box":{"Lantana":[135,105,485,597],"Plumeria":[135,597,485,1090],"Plumeria B":[135,843,485,1090],"Primrose A":[585,155,1008,475],"Primrose B":[585,475,1008,805],"Primrose AB":[585,155,1008,805],"Primrose C":[1008,155,1535,805],"Primrose D":[1535,155,1915,805],"Camellia":[988,1095,1449,1352],"Camellia A":[988,1095,1221,1352],"Camellia B":[1221,1095,1449,1352],"Verbena":[1449,1095,1915,1352],"Plumeria A":[135,597,485,843],"Lantana A":[135,105,485,351],"Lantana B":[135,351,485,597],"Primrose CD":[1008,155,1915,805],"Verbena A":[1449,1095,1682,1352],"Verbena B":[1682,1095,1915,1352]}};
   var BOX = DATA.box, MEAL = {bfast: 1, lunch: 1, dinner: 1, recep: 1, brk: 1};
   var today = new Intl.DateTimeFormat("en-CA", {timeZone: "America/Chicago", year: "numeric", month: "2-digit", day: "2-digit"}).format(new Date());
   // past days are removed, never shown
